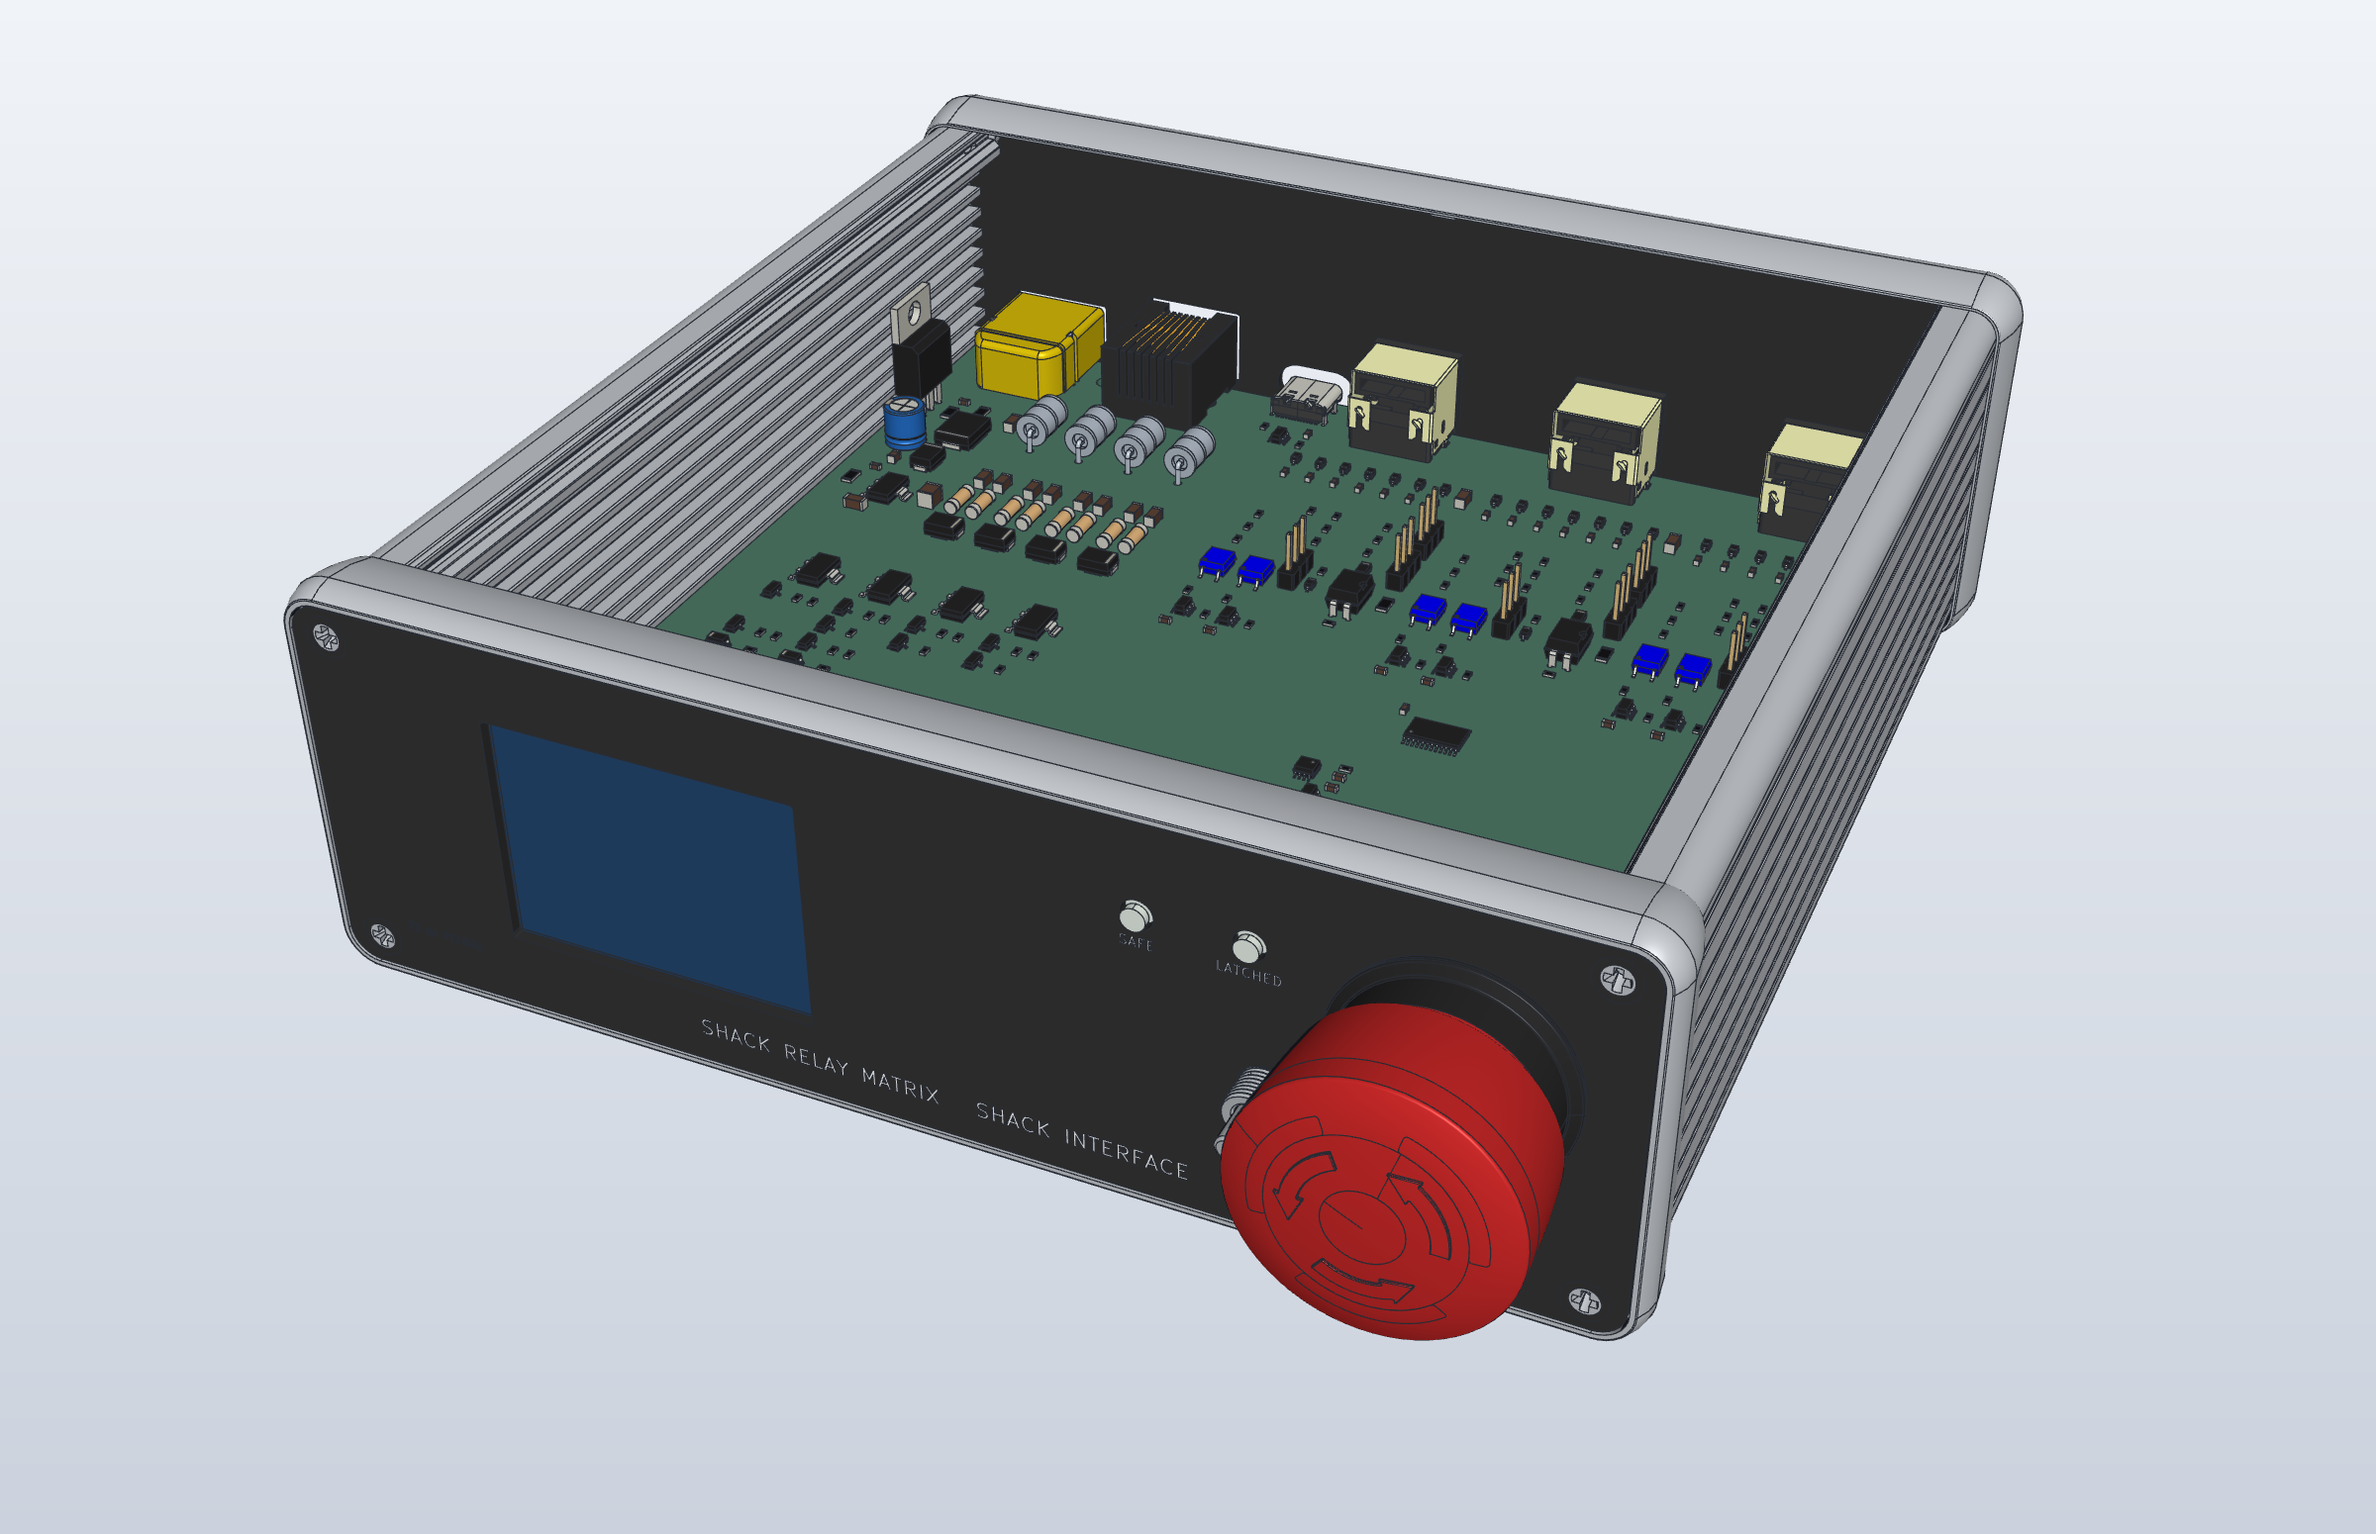
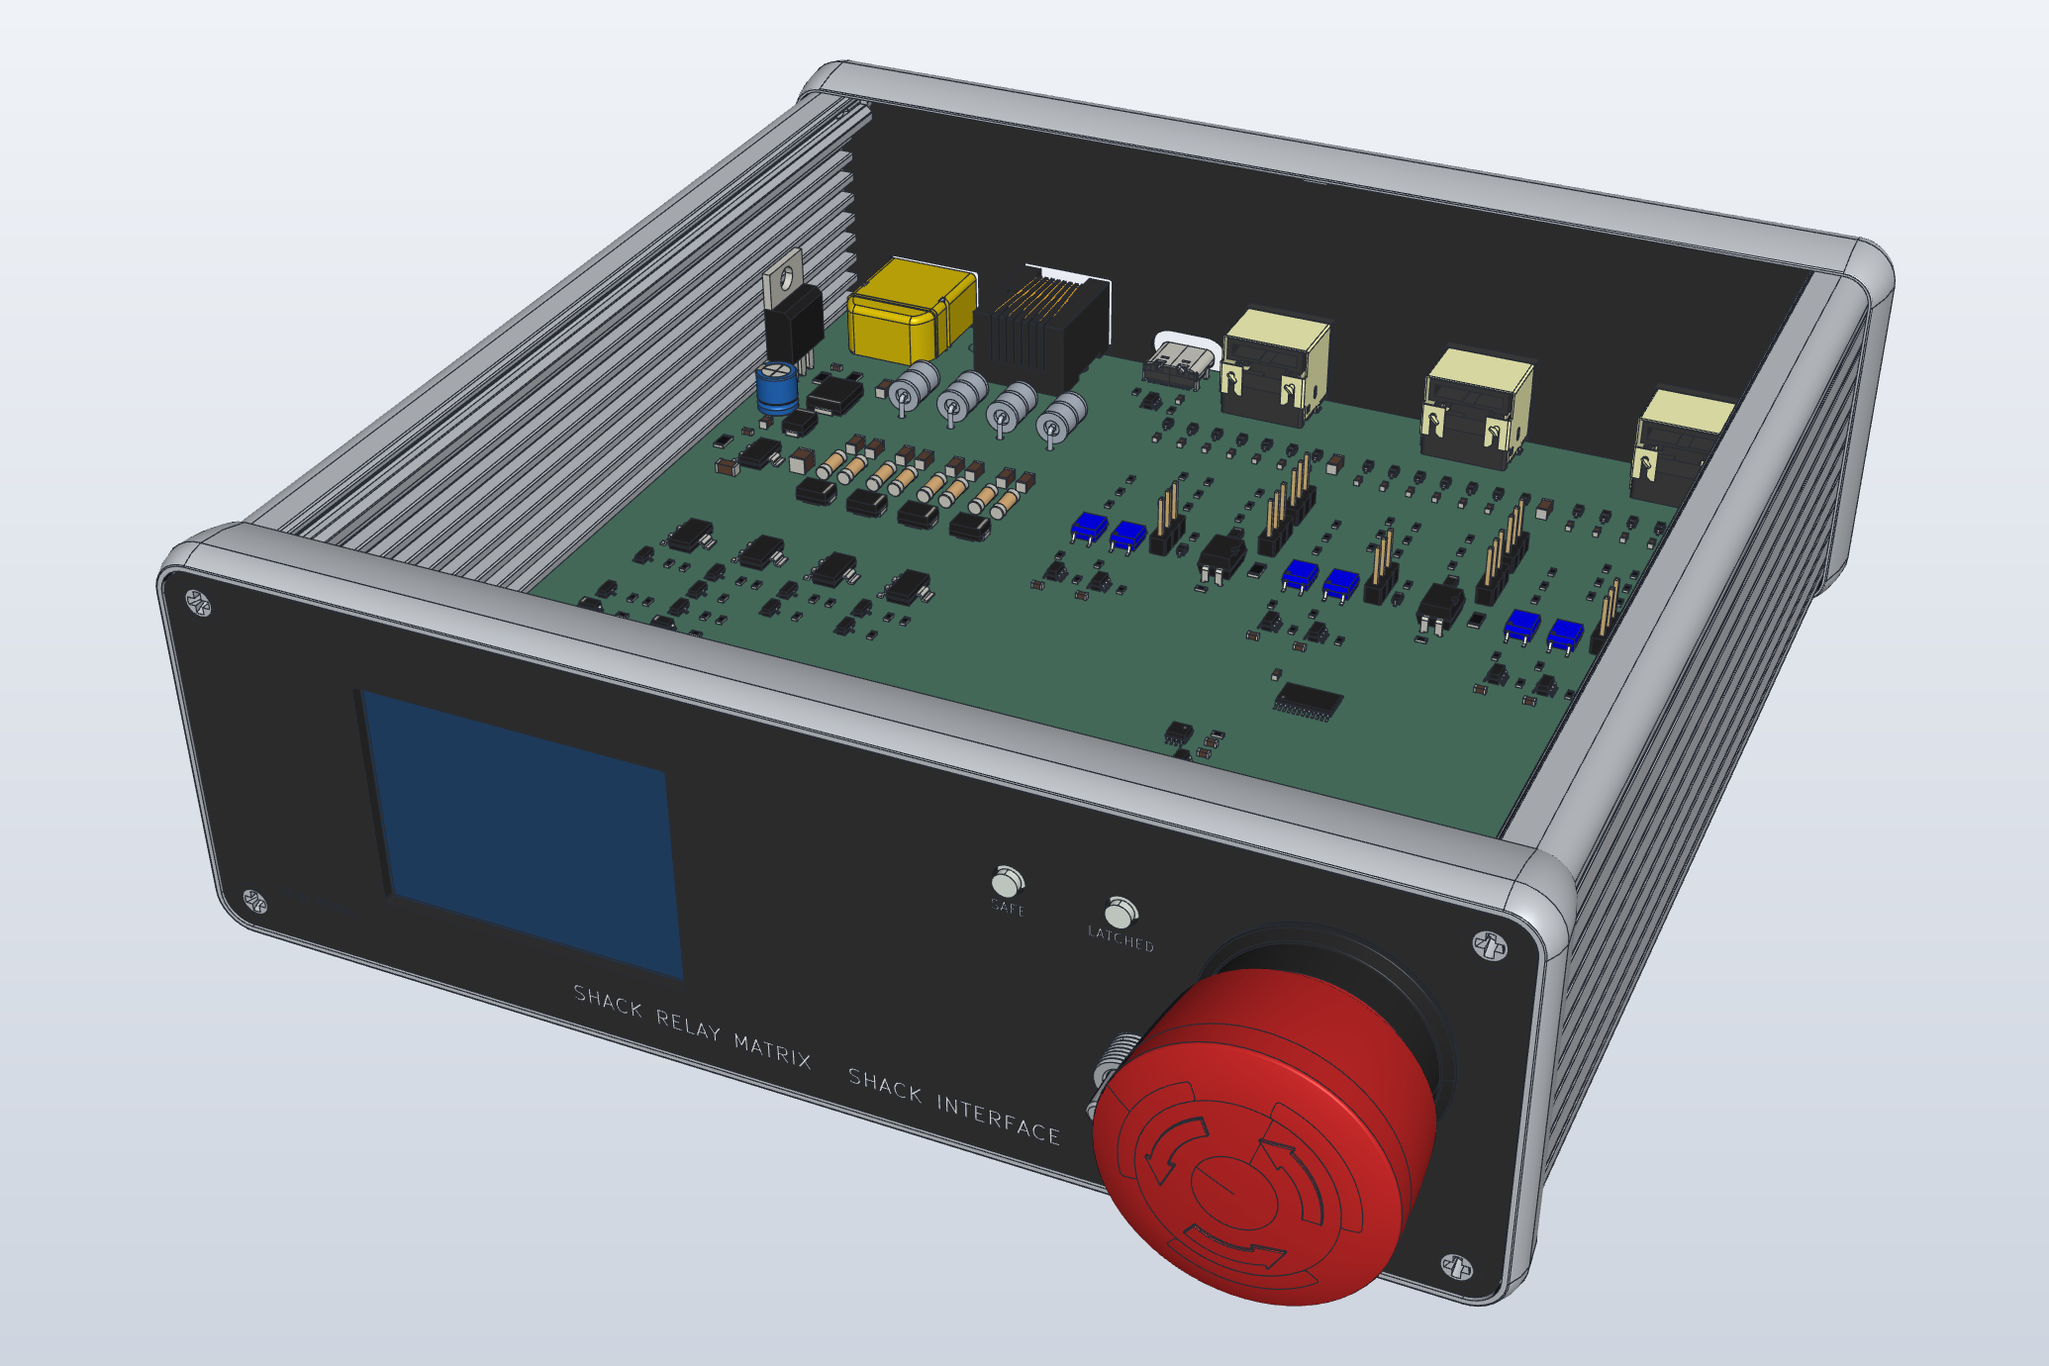
README: new layout, matching open-case views of both units
- Outdoor unit render from rf-case.solidcraft with the lid hidden
  (hardware/unit/case/render-open.json), same viewpoint as the shack interface.
- Shack interface front and rear renders; old shack-interface.png removed.
- README rewritten: overview, key numbers, why the project may interest
  readers, unit sections, safety chain, status table.

Claude-Session: https://claude.ai/code/session_01B1V8swdbsr8c87yrmmzj34

diff --git a/README.md b/README.md
@@ -5,43 +5,60 @@
 ![Scripts: MIT](https://img.shields.io/badge/scripts-MIT-blue)
 ![KiCad 10](https://img.shields.io/badge/KiCad-10-314cb6)
 
-A remote antenna switch for an amateur radio station.
-It connects up to 3 HF radios to 4 antennas, with a path to 8 antennas.
-The relay unit sits outdoors in a milled aluminium case. A small interface box in the shack controls it.
+**A remote antenna switch for an HF amateur radio station: 3 radios, 4 antennas, one Cat6 cable, and the safety rules in hardware.**
+**Designed by a radio amateur together with an AI assistant, and documented decision by decision.**
 
 <p align="center">
-  <img src="docs/images/outdoor-unit-open.png" alt="Outdoor unit: RF board with relays, controller board stacked above, in the milled case" width="49%">
-  <img src="docs/images/shack-interface.png" alt="Shack interface in its extruded aluminium case" width="49%">
+  <img src="docs/images/outdoor-unit-open.png" alt="Outdoor unit with the lid removed: RF board with the relay matrix, controller board stacked above, SO-239 connectors in the milled aluminium tray" width="49%">
+  <img src="docs/images/shack-interface-open.png" alt="Shack interface with the cover removed: main board in the extruded case, front plate with the display, LEDs, RESET and KILL switch" width="49%">
 </p>
-<p align="center"><em>Left: the outdoor unit, RF board with the controller board stacked above. Right: the shack interface. CAD renders, not photos.</em></p>
+<p align="center"><em>Left: the outdoor unit, lid removed. Right: the shack interface, cover removed. CAD views of the current design, not photos.</em></p>
 
-Status: design phase. Schematics are drawn and checked. No board is built yet. Nothing here is tested on the bench.
+The relay unit sits outdoors, close to the antennas, in a milled aluminium case.
+A small interface box in the shack controls it over one Cat6 cable.
+A computer sends the commands over USB.
+If anything goes wrong (a cable break, a box fault, a press on the KILL switch), every radio is inhibited and every relay is released, without help from the firmware.
 
-## About this project: designed with AI
+> **Status: design phase.** Schematics, layouts and the case are drawn and checked by scripts. No board is built yet, and nothing here is tested on the bench.
 
-This project has two goals.
+## In numbers
 
-1. Build a safe and useful antenna switch for my own station.
-2. Find out how hardware design works when a person and an AI work on it together.
+| | |
+|---|---|
+| Radios | 3, each with its own transmit antenna and receive antenna |
+| Antennas | 4 per unit; a second unit adds 4 more |
+| Frequency range | 1.8 to 54 MHz |
+| Power | 100 W, SWR up to 3:1 |
+| Relays | 37 × TE RT1, one type everywhere |
+| RF board | 6 layers, 50 Ω coplanar lines |
+| Link to the shack | One Cat6 cable, four opto-isolated current loops |
+| Outdoor case | Milled aluminium tray, 288 × 250 × 66 mm |
+| Shack case | Hammond 1455T1601 extrusion, PCB end plates |
+| Controllers | ESP32-C3 in the box and in the shack |
 
-The second goal is the main reason the project exists.
+## Why this project may interest you
 
-The design is a joint effort between me (PE1RGU) and an AI assistant, Claude by Anthropic.
-I set the goals and the requirements. I took the decisions, often after the AI proposed and compared options.
-The AI did much of the research, the calculations, the schematic generation scripts and the verification scripts.
-Many ideas in this design came from the AI, and many were changed or rejected after discussion.
-For that reason I do not claim this design as only my own work.
+**Safety in hardware, not only in software.**
+A receive-only antenna (such as a loop with a preamplifier) never sees transmit power.
+No relay switches while RF is present.
+The firmware may ask for a state. The hardware decides whether that state is allowed.
 
-What this means for you as a reader:
+**Designed with an AI, in the open.**
+This is an experiment in how a person and an AI assistant (Claude, by Anthropic) design hardware together.
+I set the goals and took the decisions. The AI did much of the research, the calculations and the scripts.
+The [design log](design-log.md) records every decision, who took it, and why. Rejected options stay in it too.
+See [docs/how-this-was-made.md](docs/how-this-was-made.md) for the method and its limits.
 
-- Values and calculations are checked by scripts and by review, but not all of them on the bench yet.
-- The design log records who decided what, and why.
-- See [docs/how-this-was-made.md](docs/how-this-was-made.md) for the method.
+**Everything comes from scripts.**
+Schematics, footprints, board placement, routing, end plates, the 3D fit checks and these renders are all generated by Python scripts.
+A change is repeatable, and two revisions can be compared.
+The logic is checked with truth tables against the real netlists.
+[tools/README.md](tools/README.md) lists every script and how to run it.
 
 ## What it does
 
 - Connects each of 3 radios to a transmit antenna and, separately, to a receive antenna.
-- Keeps receive-only antennas (such as a loop on ground) away from transmit power.
+- Keeps receive-only antennas away from transmit power.
 - Changes relays only when no RF is present (TX inhibit and handshake per radio).
 - Stops all transmission and releases all relays on any fault, cable break or KILL switch.
 - Grounds antennas that are not in use, through a static bleed.
@@ -87,19 +104,27 @@ flowchart LR
 The dotted lines from the radios are the TUNER and LINEAR jacks (TX inhibit, PTT sense).
 More detail, and the reason for each choice, is in [docs/architecture.md](docs/architecture.md).
 
-## Inside the outdoor unit
+## The outdoor unit
+
+The RF board carries the relay matrix: per radio a changeover relay, a transmit row and a receive row; per antenna a ground relay, a static bleed, an RF detector and an optional bias-T.
+The controller board sits on standoffs above it.
 
 <p align="center">
   <img src="docs/images/controller-board-top.png" alt="Controller board, top side: Cat6 link with opto isolators on the left, ESP32-C3 DevKit on the right" width="80%">
 </p>
-<p align="center"><em>Controller board, rev C (KiCad render). Left: the Cat6 link with the opto current loops and a 3 mm isolation gap. Right: the ESP32-C3 DevKit. The NOR gate on the silkscreen is the relay enable: RLY_EN = NOR(KILL, MCU_EN_N, FAULT).</em></p>
+<p align="center"><em>Controller board (KiCad render). Left: the Cat6 link with the opto current loops and a 3 mm isolation gap. Right: the ESP32-C3 DevKit. The NOR gate on the silkscreen is the relay enable: RLY_EN = NOR(KILL, MCU_EN_N, FAULT).</em></p>
 
-## Inside the shack interface
+## The shack interface
+
+The shack interface powers the four current loops, holds the SAFE latch and the transmit permits, and connects to the three radios.
+At the front: a 2 inch colour display, the SAFE and LATCHED LEDs, RESET and the KILL switch.
+At the rear: 13.8 V DC, Cat6 to the outdoor unit, USB and the three radio ports.
 
 <p align="center">
-  <img src="docs/images/shack-interface-open.png" alt="Shack interface with the top cover removed: main board in the extruded case, rear panel connectors, front plate with the 2 inch display, SAFE and LATCHED LEDs, RESET and the KILL switch" width="80%">
+  <img src="docs/images/shack-interface-front.png" alt="Shack interface, front: display, SAFE and LATCHED LEDs, RESET and the red KILL switch" width="49%">
+  <img src="docs/images/shack-interface-rear.png" alt="Shack interface, rear: three mini-DIN radio ports, USB-C, Cat6 and the XT60 power input" width="49%">
 </p>
-<p align="center"><em>Shack interface, cover removed (SolidCraft view, board p8b, front plate a8; made with hardware/shack-interface/case/render-full/open-cover.json). At the rear: 13.8 V DC, Cat6 to the outdoor unit, USB and the three radio ports. At the front: the 2 inch display, the SAFE and LATCHED LEDs, RESET and the KILL switch.</em></p>
+<p align="center"><em>Front and rear of the shack interface (SolidCraft renders).</em></p>
 
 ## Safety chain
 
@@ -131,6 +156,21 @@ All logic, timing and flow diagrams:
 | [F1](hardware/docs/diagrams/F1_box_firmware.svg) | Box firmware flow |
 | [F2](hardware/docs/diagrams/F2_tx_handshake.svg) | TX handshake for R2 and R3 |
 
+## Where it stands
+
+| Part | State |
+|---|---|
+| Requirements and architecture | Requirements in draft, architecture rev C |
+| Schematics, all boards | Generated, ERC clean, logic checked by script |
+| RF board layout | Placed and routed, DRC clean |
+| Controller board layout | Placed and routed, DRC clean |
+| Shack interface layout | Placed and routed, DRC clean; end plates drawn |
+| Cases | Outdoor tray and shack end plates drawn; 3D fit checked |
+| Firmware | Not started |
+| Bench tests | Not started; see [docs/test/test-spec.md](docs/test/test-spec.md) |
+
+The [CHANGELOG](CHANGELOG.md) has the details per revision.
+
 ## Documents
 
 | Document | Content |
@@ -145,26 +185,27 @@ All logic, timing and flow diagrams:
 ## Repository layout
 
 ```
-docs/                 requirements, architecture, design, test
-hardware/unit/        outdoor unit: RF board, controller board, case, verification scripts
-hardware/shack-interface/   shack interface board
+docs/                       requirements, architecture, design, test, images
+hardware/unit/              outdoor unit: RF board, controller board, case, verification scripts
+hardware/shack-interface/   shack interface board, end plates, case fit and renders
 hardware/docs/diagrams/     logic, timing and flow diagrams
-firmware/             box and shack firmware (not started)
-tools/README.md       where each generator and verification script is, and how to run it
-Datasheets/           datasheet register (PDFs are not in the repository)
-archive/              earlier revisions (card cage and backplane, rev A/B)
+firmware/                   box and shack firmware (not started)
+tools/README.md             where each generator and verification script is, and how to run it
+Datasheets/                 datasheet register (the PDFs are not in the repository)
+archive/                    earlier revisions (card cage and backplane, rev A/B)
 ```
 
 ## Tools
 
-- KiCad 10
-- Python 3 for the schematic generators and the verification scripts
+- KiCad 10, with the board layouts generated by Python scripts
+- Python 3 for the generators, the router and the verification scripts
+- cadquery and SolidCraft for the cases, the 3D fit checks and the renders
 - JLCPCB for the PCBs
 
 ## Licence
 
 - Hardware design files and documentation: CERN Open Hardware Licence v2, Strongly Reciprocal (CERN-OHL-S-2.0). See [LICENSE](LICENSE).
-- Python scripts (schematic generators, verification): MIT. See [LICENSE-MIT](LICENSE-MIT).
+- Python scripts (generators, verification): MIT. See [LICENSE-MIT](LICENSE-MIT).
 - Vendor 3D models and libraries (SnapEDA, SamacSys, Ultra Librarian, Amass, Amphenol) are not in the repository. See [hardware/THIRD-PARTY.md](hardware/THIRD-PARTY.md) for where to get them.
 
 Source Location (required by CERN-OHL-S): https://github.com/PE1RGU/hf-antenna-switch
